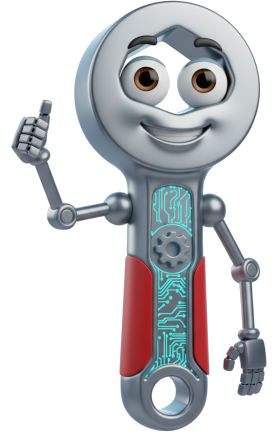
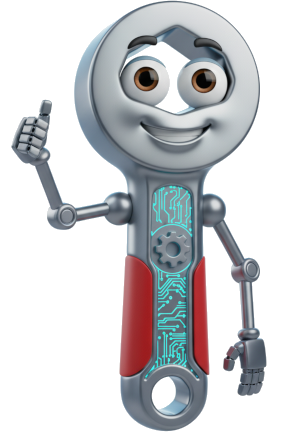
a whole bunch of visual tweaks and more socket

diff --git a/app/customer/page.tsx b/app/customer/page.tsx
@@ -260,28 +260,26 @@ function CustomerInterface() {
   return (
     <div className="min-h-screen bg-white">
       {/* Header with breadcrumb navigation */}
-      {currentStep !== "welcome" && (
-        <div className="border-b bg-white sticky top-0 z-40">
-          <div className="max-w-6xl mx-auto px-6 py-4">
-            <div className="flex items-center justify-between">
-              <div className="flex items-center gap-4">
-                <Link href="/" className="text-xl font-semibold text-gray-900 hover:text-blue-600">
-                  Buckled.io
-                </Link>
-                <span className="text-sm text-gray-500">Customer Portal</span>
-              </div>
-              <div className="flex items-center gap-4">
-                <Link href="/">
-                  <Button variant="outline" size="sm">
-                    <LogOut className="w-4 h-4 mr-2" />
-                    Exit
-                  </Button>
-                </Link>
-              </div>
+      <div className="border-b bg-white sticky top-0 z-40">
+        <div className="max-w-6xl mx-auto px-6 py-4">
+          <div className="flex items-center justify-between">
+            <div className="flex items-center gap-4">
+              <Link href="/" className="text-xl font-semibold text-gray-900 hover:text-blue-600">
+                Buckled.io
+              </Link>
+              <span className="text-sm text-gray-500">Customer Portal</span>
+            </div>
+            <div className="flex items-center gap-4">
+              <Link href="/">
+                <Button variant="outline" size="sm">
+                  <LogOut className="w-4 h-4 mr-2" />
+                  Exit
+                </Button>
+              </Link>
             </div>
           </div>
         </div>
-      )}
+      </div>
 
       {/* Main content */}
       <main>{renderCurrentStep()}</main>

diff --git a/app/customer/screens/quotes-summary.tsx b/app/customer/screens/quotes-summary.tsx
@@ -5,7 +5,7 @@ import { StarRating } from "../../../components/ui/star-rating"
 import { Button } from "../../../components/ui/button"
 import { useSignupStatus, useSelectedQuote, useNavigation, useOtherState } from "@/lib/hooks"
 import { getMockQuotes } from "../../../components/car-data"
-
+import { SocketStatus } from "@/components/ui/socket-status"
 
 export function QuotesSummary() {
     const { isSignedUp } = useSignupStatus()
@@ -18,6 +18,7 @@ export function QuotesSummary() {
 
     return (
         <div className="max-w-4xl mx-auto px-6 py-12">
+            <SocketStatus src="/images/socket-holding-rfp.png" alt="Socket holding an RFP" />
             <div className="mb-8">
                 <h2 className="text-3xl font-bold text-gray-900 mb-2">Service Center Quotes</h2>
                 <p className="text-gray-600">Compare quotes from trusted service centers in your area</p>
@@ -59,7 +60,7 @@ export function QuotesSummary() {
                 {/* Blurred quotes requiring signup */}
                 {!isSignedUp && (
                     <div className="relative">
-                        <div className="absolute inset-0 bg-white/80 backdrop-blur-sm z-10 flex items-start justify-center rounded-lg">
+                        <div className="absolute inset-0 bg-white/80 backdrop-blur-sm z-1 flex items-start justify-center rounded-lg">
                             <Card className="max-w-sm">
                                 <CardContent className="p-6 text-center">
                                     <h3 className="text-lg font-semibold mb-2">See All Quotes</h3>

diff --git a/app/customer/screens/diagnosis.tsx b/app/customer/screens/diagnosis.tsx
@@ -6,6 +6,7 @@ import { Button } from "../../../components/ui/button";
 import Image from "next/image";
 import { useOtherState, useNavigation, useSocketState, useSocketMessages } from "@/lib/hooks";
 import { useEffect } from "react";
+import { SocketStatus } from "@/components/ui/socket-status";
 
 export function Diagnosis() {
     const { diagnosisProgress, showDiagnosisResults, diagnosisResponse, showInvalidRequestMessage } = useOtherState()
@@ -38,15 +39,7 @@ export function Diagnosis() {
     return (
         <div className="max-w-2xl mx-auto px-6 py-12">
             <div className="text-center mb-8">
-                <div className="w-32 h-32 flex items-center justify-center mx-auto mb-4">
-                    <Image
-                        src="/images/socket-thinking.png"
-                        alt="Socket character"
-                        className="w-full h-full object-contain animate-socket-appear max-h-[300px]"
-                        width={120}
-                        height={300}
-                    />
-                </div>
+                <SocketStatus src="/images/socket-thinking.png" alt="Socket thinking" />
                 <h2 className="text-3xl font-bold text-gray-900 mb-2">Analyzing your issue...</h2>
                 <Progress value={diagnosisProgress} className="w-full max-w-md mx-auto" />
             </div>

diff --git a/components/socket-chat.tsx b/components/socket-chat.tsx
@@ -145,7 +145,7 @@ const SocketChat: React.FC<SocketChatProps> = ({
         <>
             {/* Mobile backdrop */}
             <div className="sm:hidden fixed inset-0 bg-black/50 z-40" onClick={onClose} />
-            
+
             <div className="fixed inset-4 sm:bottom-24 sm:right-4 sm:inset-auto sm:w-90 sm:h-120 bg-white rounded-lg sm:rounded-lg shadow-2xl border border-gray-200 flex flex-col animate-socket-dialog-in z-50">
                 {/* Header */}
                 <div className="p-4 border-b bg-[#f16c63] text-white rounded-t-lg">
@@ -153,7 +153,7 @@ const SocketChat: React.FC<SocketChatProps> = ({
                         <div className="flex items-center gap-3">
                             <div className="w-10 h-10 rounded-full bg-white/20 flex items-center justify-center">
                                 <img
-                                    src="/images/socket-thinking.png"
+                                    src="/images/socket-holding-rfp.png"
                                     alt="Socket"
                                     className="w-8 h-8 object-contain"
                                 />

diff --git a/app/customer/screens/scheduling.tsx b/app/customer/screens/scheduling.tsx
@@ -5,9 +5,9 @@ import "react-datepicker/dist/react-datepicker.css";
 import { Card, CardHeader, CardTitle, CardContent } from "../../../components/ui/card";
 import { Button } from "../../../components/ui/button";
 import { useSelectedDate, useSelectedTime, useNavigation } from "@/lib/hooks";
+import { SocketStatus } from "@/components/ui/socket-status";
 
 const timeSlots = [
-    "7:00 AM",
     "8:00 AM",
     "9:00 AM",
     "10:00 AM",
@@ -19,8 +19,6 @@ const timeSlots = [
     "4:00 PM",
     "5:00 PM",
     "6:00 PM",
-    "7:00 PM",
-    "8:00 PM",
 ]
 
 export function Scheduling() {
@@ -30,6 +28,7 @@ export function Scheduling() {
 
     return (
         <div className="max-w-2xl mx-auto px-6 py-12">
+            <SocketStatus src="/images/socket-calendar.png" alt="Socket holding a calendar" />
             <div className="mb-8">
                 <h2 className="text-3xl font-bold text-gray-900 mb-2">Schedule Your Service</h2>
                 <p className="text-gray-600">Pick a convenient date and time for your appointment</p>

diff --git a/app/customer/screens/confirmation.tsx b/app/customer/screens/confirmation.tsx
@@ -2,6 +2,7 @@ import { Check } from "lucide-react";
 import { format } from "date-fns";
 import { Card, CardHeader, CardTitle, CardContent } from "../../../components/ui/card";
 import { useSelectedQuote, useSelectedDate, useSelectedTime } from "@/lib/hooks";
+import { SocketStatus } from "@/components/ui/socket-status";
 
 export function Confirmation() {
     const { selectedQuote } = useSelectedQuote()
@@ -10,10 +11,8 @@ export function Confirmation() {
 
     return (
         <div className="max-w-2xl mx-auto px-6 py-12">
+            <SocketStatus src="/images/socket-thumbs-up.png" alt="Socket giving a thumbs up" />
             <div className="text-center mb-8">
-                <div className="w-16 h-16 bg-green-500 rounded-full flex items-center justify-center mx-auto mb-4">
-                    <Check className="w-8 h-8 text-white" />
-                </div>
                 <h2 className="text-3xl font-bold text-gray-900 mb-2">Appointment Scheduled!</h2>
             </div>
 

diff --git a/components/ui/socket-assistant.tsx b/components/ui/socket-assistant.tsx
@@ -112,7 +112,7 @@ export const SocketAssistant: React.FC<SocketAssistantProps> = ({
         )
     }
 
-    const baseClasses = "fixed bottom-6 right-6 w-16 h-16  rounded-full flex items-center justify-center cursor-pointer shadow-lg hover:shadow-xl transition-all duration-300"
+    const baseClasses = "fixed bottom-6 right-6 w-20 h-20 z-10 rounded-full flex items-center justify-center cursor-pointer shadow-lg hover:shadow-xl transition-all duration-300"
     const animationClasses = showBounceAnimation ? "animate-bounce-in" : ""
 
     return (
@@ -122,7 +122,7 @@ export const SocketAssistant: React.FC<SocketAssistantProps> = ({
                 onClick={handleClick}
             >
                 <img
-                    src="/images/socket-thinking.png"
+                    src="/images/socket-thumbs-up.png"
                     alt="Socket character"
                     className="w-full h-full object-contain animate-socket-appear max-h-[64px]"
                 />

diff --git a/app/customer/screens/rfp-confirmation.tsx b/app/customer/screens/rfp-confirmation.tsx
@@ -2,6 +2,7 @@ import { Label } from "@radix-ui/react-label";
 import { FileText, ArrowRight, Wrench, Clock, Check } from "lucide-react";
 import { Card, CardContent } from "../../../components/ui/card";
 import { useSelectedQuote, useOtherState } from "@/lib/hooks";
+import { SocketStatus } from "@/components/ui/socket-status";
 
 export function RfpConfirmation() {
     const { selectedQuote } = useSelectedQuote()
@@ -10,6 +11,7 @@ export function RfpConfirmation() {
     return (
         <div className="max-w-2xl mx-auto px-6 py-12">
             <div className="text-center">
+                <SocketStatus src="/images/socket-holding-rfp-ready.png" alt="Socket holding an RFP that's ready" />
                 <div className="mb-8">
                     <h2 className="text-3xl font-bold text-gray-900 mb-4">Sending Your Request</h2>
                     <p className="text-gray-600 mb-6">We're sending your RFP to {selectedQuote?.serviceCenterName}</p>

diff --git a/components/ui/socket-status.tsx b/components/ui/socket-status.tsx
@@ -1,0 +1,18 @@
+import Image from "next/image"
+interface SocketStatusProps {
+    src: string
+    alt?: string
+}
+export const SocketStatus = ({ src, alt }: SocketStatusProps) => {
+    return (
+        <div className="w-32 h-32 flex items-center justify-center mx-auto mb-4">
+            <Image
+                src={src}
+                alt={alt ?? "Socket character"}
+                className="w-full h-full object-contain animate-socket-appear max-h-[300px]"
+                width={120}
+                height={300}
+            />
+        </div>
+    )
+}

diff --git a/app/customer/screens/problem-description.tsx b/app/customer/screens/problem-description.tsx
@@ -5,6 +5,7 @@ import { Textarea } from "../../../components/ui/textarea";
 import { Button } from "../../../components/ui/button";
 import { useCarSelection, useProblemDescription, useNavigation, useOtherState, useSocketMessages, useSocketState } from "@/lib/hooks";
 import { useEffect } from "react";
+import Image from "next/image"
 
 export function ProblemDescription() {
     const { selectedCar } = useCarSelection()
